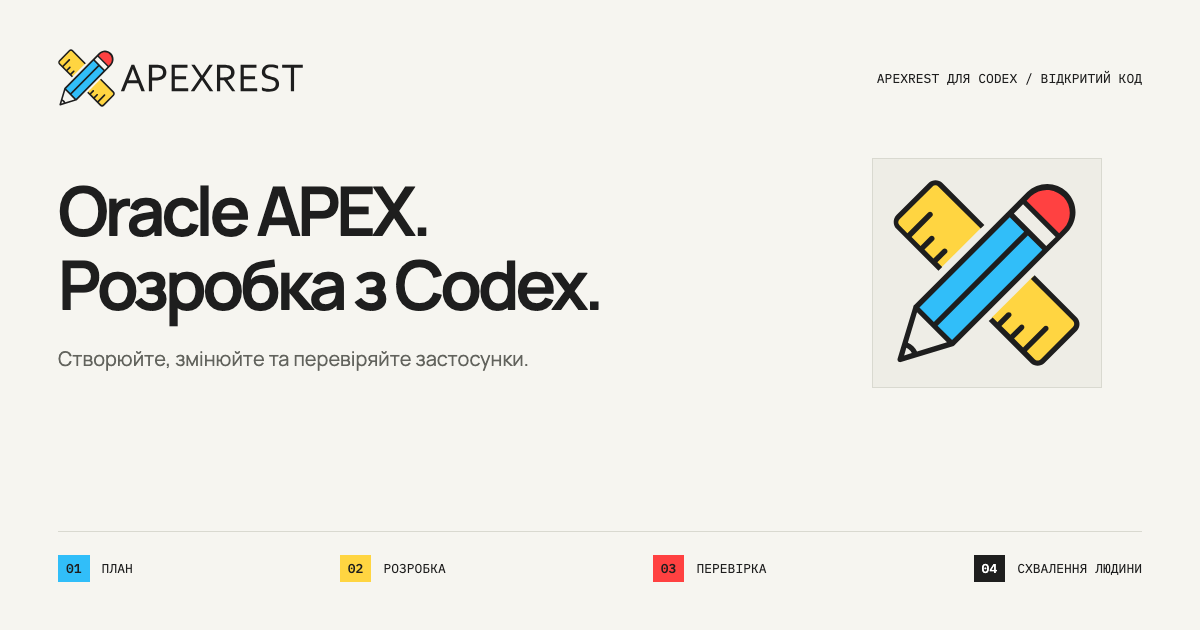
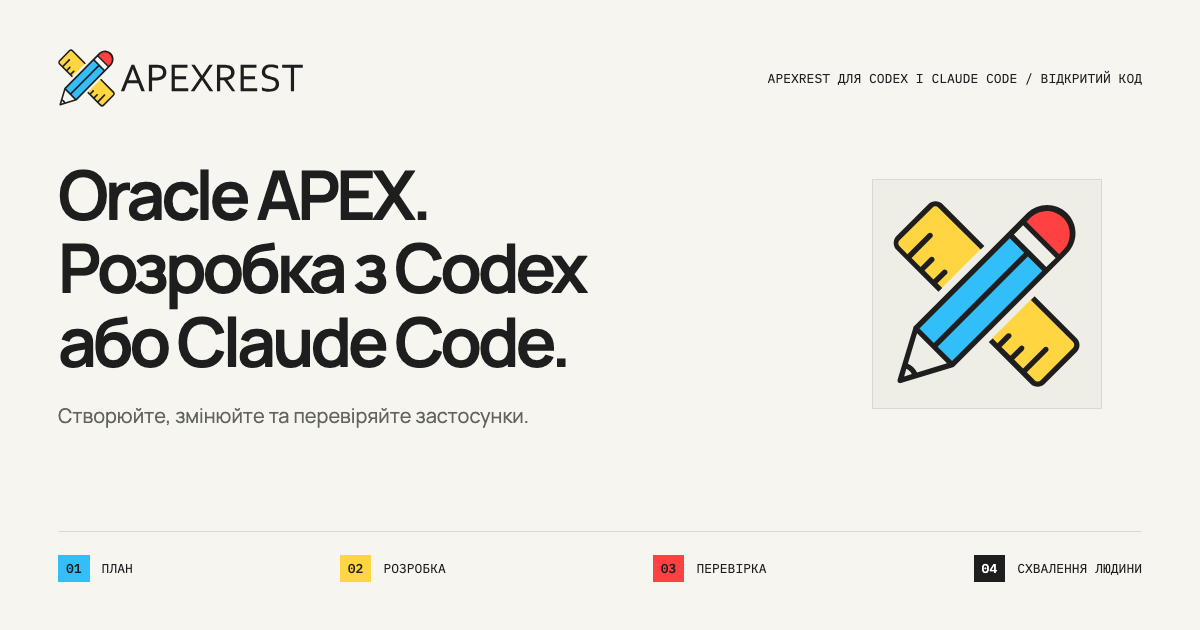
Present APEXREST 1.3.0 with a What's new section and refreshed social cards
Show 1.3.0 as the current release, add a six-item overview of the redesign
(Codex and Claude Code hosts, pooled SQLcl engine, 11 tools and 5 skills,
plan-bound ship, working copies, hardened safeguards) with its local-only
verification caveat, extend the headline to both hosts, fix the mobile
line break and the Ukrainian eyebrow, re-render the OG images and record
the npm publication lag in the content sources.

diff --git a/uk/index.html b/uk/index.html
@@ -22,7 +22,7 @@
   <meta property="og:image" content="https://apex.rest/assets/og-uk.png">
   <meta property="og:image:width" content="1200">
   <meta property="og:image:height" content="630">
-  <meta property="og:image:alt" content="APEXREST для Codex: Oracle APEX. Розробка з Codex. Створення, зміни, валідація та перевірка.">
+  <meta property="og:image:alt" content="APEXREST для Codex і Claude Code: Oracle APEX. Розробка з Codex або Claude Code. Створюйте, змінюйте та перевіряйте застосунки.">
 
   <meta name="twitter:card" content="summary_large_image">
   <meta name="twitter:title" content="APEXREST для Codex і Claude Code — Створюйте та змінюйте застосунки Oracle APEX">
@@ -54,7 +54,7 @@
   "@type": "SoftwareApplication",
   "name": "APEXREST for Codex and Claude Code",
   "applicationCategory": "DeveloperApplication",
-  "softwareVersion": "1.2.0",
+  "softwareVersion": "1.3.0",
   "url": "https://github.com/apexrest-dev/apexrest",
   "downloadUrl": "https://www.npmjs.com/package/apexrest",
   "license": "https://github.com/apexrest-dev/apexrest/blob/main/LICENSE",
@@ -74,6 +74,7 @@
       <a class="brand" href="#top" aria-label="APEXREST — головна"><img class="brand-logo" src="../assets/brand/apexrest-logo.svg" alt="APEXREST" width="216" height="50"></a>
       <nav class="site-nav" id="site-nav" aria-label="Основна навігація">
         <a href="#work">Можливості</a>
+        <a href="#new">Що нового</a>
         <a href="#trace">Як це працює</a>
         <a href="#proof">Документація</a>
         <a href="#install" class="nav-cta">Встановити плагін <span aria-hidden="true">↗</span></a>
@@ -87,11 +88,11 @@
   </header>
   <main id="main">
     <section class="hero" id="top">
-      <div class="shell announcement-banner"><a href="https://github.com/apexrest-dev/apexrest/blob/main/docs/release-notes.md" target="_blank" rel="noopener noreferrer"><span class="announcement-badge">NEW</span><span><strong>APEXREST</strong> — один плагін для Codex і Claude Code</span><span class="announcement-banner-link">Що нового <span aria-hidden="true">↗</span></span></a></div>
+      <div class="shell announcement-banner"><a href="https://github.com/apexrest-dev/apexrest/blob/main/docs/release-notes.md" target="_blank" rel="noopener noreferrer"><span class="announcement-badge">1.3.0</span><span><strong>APEXREST 1.3.0</strong> — один плагін для Codex і Claude Code, уже в npm</span><span class="announcement-banner-link">Що нового <span aria-hidden="true">↗</span></span></a></div>
       <div class="shell hero-grid" id="codex">
         <div class="hero-copy">
-          <p class="eyebrow"><span class="status-dot" aria-hidden="true"></span>APEXREST ДЛЯ CODEX / ПЛАГІН ІЗ ВІДКРИТИМ КОДОМ</p>
-          <h1>Oracle APEX.<br><em>Розробка<br> з Codex.</em></h1>
+          <p class="eyebrow"><span class="status-dot" aria-hidden="true"></span>APEXREST ДЛЯ CODEX І CLAUDE CODE / ПЛАГІН ІЗ ВІДКРИТИМ КОДОМ</p>
+          <h1>Oracle APEX.<br><em>Розробка з Codex<br> або Claude Code.</em></h1>
           <p class="hero-lede">Створюйте та змінюйте застосунки Oracle APEX у розмові з Codex або Claude Code. Один плагін працює в обох. APEXREST поєднує інструменти APEX, перевірки коду та керований імпорт в одному процесі.</p>
           <div class="hero-actions"><a class="button button-primary" href="#install">Встановити плагін <span aria-hidden="true">↓</span></a><a class="button button-secondary" href="https://github.com/apexrest-dev/apexrest/blob/main/docs/index.md" target="_blank" rel="noopener noreferrer">Документація <span aria-hidden="true">↗</span></a></div>
           <div class="hero-proof"><div><span>01</span><strong>Ваша поточна сесія Codex або Claude Code</strong></div><div><span>02</span><strong>Зрозумілий код під контролем версій</strong></div><div><span>03</span><strong>Імпорт у погоджених межах</strong></div></div>
@@ -131,8 +132,18 @@
 <li><span aria-hidden="true">04</span><div><h3>Повноцінна платформа застосунків</h3><p>Oracle APEX надає форми, звіти, автентифікацію та робочі процеси на Oracle Database — основу для промислової експлуатації вашого застосунку.</p></div></li></ol></div>
       </div>
     </section>
+    <section class="use-cases section-block section-paper" id="new">
+      <div class="shell"><div class="section-intro"><p class="section-index">03 / ЩО НОВОГО В 1.3.0</p><h2>Один плагін. Два хости.<br>Менша й точніша поверхня.</h2><p class="section-lede">Редизайн 1.3.0 скорочує поверхню агента з 21 інструмента до 11 і з 14 навичок до 5, додає Claude Code поряд із Codex і залишає кожен імпорт за явним дозволом, прив’язаним до плану.</p></div><div class="use-case-grid"><article><span>01 / ХОСТИ</span><h3>Codex і Claude Code</h3><p>Той самий пакет містить маніфест Codex і маніфест Claude Code. Навички не залежать від хоста, а MCP-сервер запускається з каталогу плагіна без глобальної реєстрації.</p></article>
+<article><span>02 / РУШІЙ</span><h3>Постійний рушій SQLcl</h3><p>Офлайн-робота компілятора виконується на пулі серверів SQLcl замість окремого процесу на кожен виклик. Валідація повертає структуровану діагностику: файл, рядок, стовпець, тип, допустимі значення та підказку.</p></article>
+<article><span>03 / ПОВЕРХНЯ</span><h3>Одинадцять інструментів, п’ять навичок</h3><p>Проєкт, довідка, метадані, валідація, ship, синхронізація, тести, браузер, задачі, артефакти та стан. Каталог інструментів — близько 12 КБ, тож менше контексту сесії йде на описи інструментів.</p></article>
+<article><span>04 / SHIP</span><h3>Спершу план, потім застосування</h3><p><code>apexrest_ship</code> спочатку планує, а потім застосовує за дозволом, прив’язаним до вашого запиту, проєкту, цілі та дайджесту плану. Прогрес звітується по фазах; production-цілі відхиляються.</p></article>
+<article><span>05 / SYNC</span><h3>Робочі копії наявних застосунків</h3><p>Тримайте робочу копію dev- або test-застосунку з одним редактором: ініціалізуйте, перевіряйте стан, оновлюйте чи скидайте та імпортуйте із замороженого локального коду.</p></article>
+<article><span>06 / БЕЗПЕКА</span><h3>Посилені запобіжники доставки</h3><p>Довіра до production, якою володіє адміністратор, плани зі строком дії 30 хвилин, резервні копії та файли паролів лише для власника, плоскі міграції з унікальними версіями. Жодних службових таблиць у вашій схемі APEX.</p></article></div>
+        <div class="trust-line"><span class="trust-stamp">ПОКИ ЩО ПЕРЕВІРЕНО ЛОКАЛЬНО</span><p>1.3.0 пройшов локальні модульні, контрактні, інсталяційні та пакувальні перевірки. Підключені імпорти Oracle, перевірки в автентифікованому браузері та живі сесії Codex чи Claude Code з викликом інструментів ще не зафіксовано.</p><a class="text-link" href="https://github.com/apexrest-dev/apexrest/blob/main/docs/release-notes.md" target="_blank" rel="noopener noreferrer">Нотатки до релізу <span aria-hidden="true">↗</span></a></div>
+      </div>
+    </section>
     <section class="trace section-block section-accent" id="trace">
-      <div class="shell"><div class="section-intro section-intro-split trace-intro"><div><p class="section-index">03 / ЯК ЦЕ ПРАЦЮЄ</p><h2>Від запиту<br>до перевіреної зміни.</h2></div><div class="slack-brief"><span class="micro-label">ПРИКЛАД / НАЯВНИЙ ЗАСТОСУНОК</span><p>Додайте звіт про статуси замовлень. Збережіть наявні сторінки й автентифікацію. Імпортуйте у визначений тестовий застосунок і перевірте фільтр.</p></div></div>
+      <div class="shell"><div class="section-intro section-intro-split trace-intro"><div><p class="section-index">04 / ЯК ЦЕ ПРАЦЮЄ</p><h2>Від запиту<br>до перевіреної зміни.</h2></div><div class="slack-brief"><span class="micro-label">ПРИКЛАД / НАЯВНИЙ ЗАСТОСУНОК</span><p>Додайте звіт про статуси замовлень. Збережіть наявні сторінки й автентифікацію. Імпортуйте у визначений тестовий застосунок і перевірте фільтр.</p></div></div>
         <ol class="trace-list product-workflow"><li><span class="trace-number">01</span><div><span class="trace-verb">МЕЖІ</span><h3>Визначте застосунок.</h3></div><p>Опишіть зміну та вкажіть проєкт і середовище. Агент перевірить доступний контекст застосунку й бази даних.</p></li>
 <li><span class="trace-number">02</span><div><span class="trace-verb">РОЗРОБКА</span><h3>Змініть зрозумілий код.</h3></div><p>Створіть або експортуйте застосунок, а потім внесіть обмежені зміни в APEXlang. Зберігайте міграції схеми й даних під контролем версій разом із застосунком.</p></li>
 <li><span class="trace-number">03</span><div><span class="trace-verb">ПЕРЕВІРКА</span><h3>Валідуйте до імпорту.</h3></div><p>Виконайте потрібні перевірки коду та компілятора. План розгортання фіксує код, інструментарій і цільове середовище.</p></li>
@@ -143,7 +154,7 @@
       </div>
     </section>
     <section class="section-block" id="team">
-      <div class="shell"><div class="section-intro section-intro-split"><div><p class="section-index">04 / ВАШ СПОСІБ РОБОТИ</p><h2>Ваша розмова.<br>Панель — коли потрібно.</h2></div><p>APEXREST працює у вже відкритій розмові з Codex або Claude Code. Хост зберігає модель і дозволи, а APEXREST надає операції Oracle APEX.</p></div>
+      <div class="shell"><div class="section-intro section-intro-split"><div><p class="section-index">05 / ВАШ СПОСІБ РОБОТИ</p><h2>Ваша розмова.<br>Панель — коли потрібно.</h2></div><p>APEXREST працює у вже відкритій розмові з Codex або Claude Code. Хост зберігає модель і дозволи, а APEXREST надає операції Oracle APEX.</p></div>
         <div class="repo-grid">
           <article class="repo-card repo-control"><div class="repo-card-top"><span class="repo-label">ЯК ВИ ПРАЦЮЄТЕ</span><span class="repo-status">CHAT</span></div><h3>Ваша поточна сесія Codex або Claude Code</h3><p class="repo-summary">Опишіть зміну у відкритій розмові. Робота починається там само, з її контекстом, моделлю та дозволами. Без додаткових агентів і без стартового виклику плагіна.</p><ul><li>Опишіть задачу або використайте <code>$apexrest-work</code></li><li>Налаштуйте підключення навичкою <code>$apexrest-setup</code></li><li>Продовжуйте зміни в тій самій розмові</li></ul><a class="repo-link" href="https://github.com/apexrest-dev/apexrest/blob/main/docs/chat-workflow.md" target="_blank" rel="noopener noreferrer">Як працювати в чаті <span aria-hidden="true">↗</span></a></article>
           <article class="repo-card repo-gate"><div class="repo-card-top"><span class="repo-label">ЗА ПОТРЕБИ</span><span class="repo-status">STATUS</span></div><h3>Стан розробки</h3><p class="repo-summary">Перегляньте стан розробки: налаштування проєкту й підключення, робочу копію, задачі, розгортання та дозволи. Він лише для читання і не може сам надати дозвіл чи застосувати план.</p><ul><li>Пряме підключення Oracle або ORDS HTTP(S)</li><li>Фактичні результати задач і діагностика</li><li>Браузер Codex або зовнішній браузер для перевірки</li></ul><a class="repo-link" href="https://github.com/apexrest-dev/apexrest/blob/main/docs/panel.md" target="_blank" rel="noopener noreferrer">Про стан розробки <span aria-hidden="true">↗</span></a></article>
@@ -151,7 +162,7 @@
       </div>
     </section>
     <section class="announcement section-block" id="install" aria-labelledby="install-title">
-      <div class="shell"><div class="announcement-heading"><p class="section-index">05 / ПОЧАТОК РОБОТИ</p><span class="announcement-version">NPM LATEST · 1.2.0</span></div>
+      <div class="shell"><div class="announcement-heading"><p class="section-index">06 / ПОЧАТОК РОБОТИ</p><span class="announcement-version">NPM LATEST · 1.3.0</span></div>
         <div class="announcement-grid"><div class="announcement-copy"><h2 id="install-title">Oracle APEX<br><em>у вашому агенті.</em></h2><p class="announcement-lede">Додайте marketplace. Встановіть плагін. Почніть із перевірки налаштувань.</p><p>Той самий пакет плагіна встановлюється з репозиторію в Codex (desktop і CLI) та Claude Code. Потрібен Node 24 LTS.</p><ol class="announcement-capabilities"><li><span aria-hidden="true">01</span><div><h3>Оберіть хост</h3><p>Виконайте дві команди для Codex або для Claude Code. Обидві реєструють той самий плагін APEXREST.</p></div></li>
 <li><span aria-hidden="true">02</span><div><h3>Нехай плагін підготує інструменти</h3><p>На ваш запит він покаже та встановить відсутні Java і SQLcl. Спершу ви ознайомитеся з умовами Oracle; база даних не створюється, застосунок не розгортається.</p></div></li>
 <li><span aria-hidden="true">03</span><div><h3>Почніть нову сесію</h3><p>Відкрийте нову задачу в Codex або сесію Claude Code та попросіть APEXREST перевірити налаштування до першої зміни застосунку.</p></div></li></ol><div class="announcement-actions"><a class="button button-primary" href="https://github.com/apexrest-dev/apexrest/blob/main/docs/getting-started.md" target="_blank" rel="noopener noreferrer">Повна інструкція встановлення <span aria-hidden="true">↗</span></a><a class="text-link" href="https://github.com/apexrest-dev/apexrest" target="_blank" rel="noopener noreferrer">Відкритий код на GitHub <span aria-hidden="true">↗</span></a></div></div>
@@ -166,13 +177,13 @@ claude plugin install apexrest@apexrest</code></pre><p class="announcement-insta
             <p class="micro-label">ВАШ ПЕРШИЙ ЗАПИТ</p><blockquote class="announcement-prompt">Використай APEXREST для перевірки моїх налаштувань. Повідом, які перевірки компілятора, підключення та цільового середовища ще потребують уваги.</blockquote><h4>Для роботи з Oracle</h4><ul class="announcement-requirements"><li>Java 21 та перевірений SQLcl 26.1.2</li><li>Наявне середовище Oracle APEX 26.1+</li><li>Збережене підключення SQLcl або приватні дані ORDS</li></ul><p class="announcement-install-note">Зберігайте паролі в локальних налаштуваннях підключення, поза запитами в чаті.</p>
             <details class="install-alternative"><summary>Потрібен лише CLI? Встановлення з npm</summary><pre class="announcement-commands"><code>npm install -g apexrest
 apexrest --version
-apexrest --help</code></pre><p class="announcement-install-note">npm latest — 1.2.0, beta — 1.3.0-beta.1. Обидва пакети досі містять попередній набір інструментів лише для Codex; підтримка Claude Code є в репозиторії.</p></details>
+apexrest --help</code></pre><p class="announcement-install-note">Команда встановлює npm latest — 1.3.0 на момент публікації; зафіксувати версію можна через apexrest@1.3.0. Старіший 1.3.0-beta.1 під тегом beta зберігає попередній набір із 21 інструмента.</p></details>
           </div></aside>
         </div>
-        <div class="announcement-boundaries"><div><h3>Працюєте в Codex Cloud?</h3><p>Окрема інструкція описує CLI та ORDS через HTTPS. Підтримку нативного Cloud-плагіна, MCP і панелі не підтверджено; повний Cloud-процес ще потребує наскрізної перевірки.</p><a class="text-link" href="https://github.com/apexrest-dev/apexrest/blob/main/docs/codex-cloud.md" target="_blank" rel="noopener noreferrer">Налаштування Cloud <span aria-hidden="true">↗</span></a></div><div><h3>Реліз із відкритими обмеженнями.</h3><p>Підтримку Claude Code перевірено локально: обидва маніфести плагіна валідні, локальне встановлення працює. Наскрізна сесія Claude Code і встановлення з опублікованого marketplace ще попереду, як і підключені імпорти, відновлення та ширші перевірки платформ. Версія 1.2.0 — актуальний реліз npm latest.</p><a class="text-link" href="https://github.com/apexrest-dev/apexrest/blob/main/docs/implementation-status.md" target="_blank" rel="noopener noreferrer">Стан перевірок <span aria-hidden="true">↗</span></a></div></div>
+        <div class="announcement-boundaries"><div><h3>Працюєте в Codex Cloud?</h3><p>Окрема інструкція описує CLI та ORDS через HTTPS. Підтримку нативного Cloud-плагіна, MCP і панелі не підтверджено; повний Cloud-процес ще потребує наскрізної перевірки.</p><a class="text-link" href="https://github.com/apexrest-dev/apexrest/blob/main/docs/codex-cloud.md" target="_blank" rel="noopener noreferrer">Налаштування Cloud <span aria-hidden="true">↗</span></a></div><div><h3>Реліз із відкритими обмеженнями.</h3><p>Версія 1.3.0 — актуальний реліз npm latest з оновленою поверхнею. Локальні перевірки пройдено; підключені імпорти Oracle, перевірки в автентифікованому браузері та живі сесії Codex чи Claude Code з викликом інструментів ще відкриті, як і відновлення та ширші перевірки платформ.</p><a class="text-link" href="https://github.com/apexrest-dev/apexrest/blob/main/docs/implementation-status.md" target="_blank" rel="noopener noreferrer">Стан перевірок <span aria-hidden="true">↗</span></a></div></div>
       </div>
     </section>
-    <section class="research section-block" id="proof"><div class="shell research-grid"><div><p class="section-index">06 / ДОКУМЕНТАЦІЯ ТА КОД</p><h2>Подробиці там,<br>де вони потрібні.</h2><a class="text-link" href="https://www.npmjs.com/package/apexrest" target="_blank" rel="noopener noreferrer">apexrest / npm <span aria-hidden="true">↗</span></a></div><div class="source-list"><a href="https://github.com/apexrest-dev/apexrest/blob/main/docs/getting-started.md" target="_blank" rel="noopener noreferrer"><span>СТАРТ</span>Встановлення та перший застосунок<i aria-hidden="true">↗</i></a>
+    <section class="research section-block" id="proof"><div class="shell research-grid"><div><p class="section-index">07 / ДОКУМЕНТАЦІЯ ТА КОД</p><h2>Подробиці там,<br>де вони потрібні.</h2><a class="text-link" href="https://www.npmjs.com/package/apexrest" target="_blank" rel="noopener noreferrer">apexrest / npm <span aria-hidden="true">↗</span></a></div><div class="source-list"><a href="https://github.com/apexrest-dev/apexrest/blob/main/docs/getting-started.md" target="_blank" rel="noopener noreferrer"><span>СТАРТ</span>Встановлення та перший застосунок<i aria-hidden="true">↗</i></a>
 <a href="https://github.com/apexrest-dev/apexrest/blob/main/docs/index.md" target="_blank" rel="noopener noreferrer"><span>ГІДИ</span>Уся документація плагіна<i aria-hidden="true">↗</i></a>
 <a href="https://github.com/apexrest-dev/apexrest/blob/main/docs/ords.md" target="_blank" rel="noopener noreferrer"><span>ЗВ’ЯЗОК</span>Підключення SQLcl та ORDS<i aria-hidden="true">↗</i></a>
 <a href="https://github.com/apexrest-dev/apexrest/blob/main/docs/deployment-safety.md" target="_blank" rel="noopener noreferrer"><span>КОНТРОЛЬ</span>Правила імпорту й релізу<i aria-hidden="true">↗</i></a>

diff --git a/index.html b/index.html
@@ -22,7 +22,7 @@
   <meta property="og:image" content="https://apex.rest/assets/og.png">
   <meta property="og:image:width" content="1200">
   <meta property="og:image:height" content="630">
-  <meta property="og:image:alt" content="APEXREST for Codex: Oracle APEX. Built with Codex. Create, change, validate and verify.">
+  <meta property="og:image:alt" content="APEXREST for Codex and Claude Code: Oracle APEX. Built with Codex or Claude Code. Create, change and verify your applications.">
 
   <meta name="twitter:card" content="summary_large_image">
   <meta name="twitter:title" content="APEXREST for Codex and Claude Code — Build and change Oracle APEX applications">
@@ -54,7 +54,7 @@
   "@type": "SoftwareApplication",
   "name": "APEXREST for Codex and Claude Code",
   "applicationCategory": "DeveloperApplication",
-  "softwareVersion": "1.2.0",
+  "softwareVersion": "1.3.0",
   "url": "https://github.com/apexrest-dev/apexrest",
   "downloadUrl": "https://www.npmjs.com/package/apexrest",
   "license": "https://github.com/apexrest-dev/apexrest/blob/main/LICENSE",
@@ -74,6 +74,7 @@
       <a class="brand" href="#top" aria-label="APEXREST home"><img class="brand-logo" src="assets/brand/apexrest-logo.svg" alt="APEXREST" width="216" height="50"></a>
       <nav class="site-nav" id="site-nav" aria-label="Main navigation">
         <a href="#work">Capabilities</a>
+        <a href="#new">What’s new</a>
         <a href="#trace">How it works</a>
         <a href="#proof">Documentation</a>
         <a href="#install" class="nav-cta">Install the plugin <span aria-hidden="true">↗</span></a>
@@ -87,11 +88,11 @@
   </header>
   <main id="main">
     <section class="hero" id="top">
-      <div class="shell announcement-banner"><a href="https://github.com/apexrest-dev/apexrest/blob/main/docs/release-notes.md" target="_blank" rel="noopener noreferrer"><span class="announcement-badge">NEW</span><span><strong>APEXREST</strong> — one plugin for Codex and Claude Code</span><span class="announcement-banner-link">Release notes <span aria-hidden="true">↗</span></span></a></div>
+      <div class="shell announcement-banner"><a href="https://github.com/apexrest-dev/apexrest/blob/main/docs/release-notes.md" target="_blank" rel="noopener noreferrer"><span class="announcement-badge">1.3.0</span><span><strong>APEXREST 1.3.0</strong> — one plugin for Codex and Claude Code, now on npm</span><span class="announcement-banner-link">Release notes <span aria-hidden="true">↗</span></span></a></div>
       <div class="shell hero-grid" id="codex">
         <div class="hero-copy">
           <p class="eyebrow"><span class="status-dot" aria-hidden="true"></span>APEXREST FOR CODEX AND CLAUDE CODE / OPEN-SOURCE PLUGIN</p>
-          <h1>Oracle APEX.<br><em>Built with<br> Codex.</em></h1>
+          <h1>Oracle APEX.<br><em>Built with Codex<br> or Claude Code.</em></h1>
           <p class="hero-lede">Create and change Oracle APEX applications in your Codex or Claude Code conversation. One plugin works in both. APEXREST brings the APEX tools, source checks and controlled imports into the same workflow.</p>
           <div class="hero-actions"><a class="button button-primary" href="#install">Install the plugin <span aria-hidden="true">↓</span></a><a class="button button-secondary" href="https://github.com/apexrest-dev/apexrest/blob/main/docs/index.md" target="_blank" rel="noopener noreferrer">Read the docs <span aria-hidden="true">↗</span></a></div>
           <div class="hero-proof"><div><span>01</span><strong>Your current Codex or Claude Code session</strong></div><div><span>02</span><strong>Readable, versioned source</strong></div><div><span>03</span><strong>Imports within your approval</strong></div></div>
@@ -131,8 +132,18 @@
 <li><span aria-hidden="true">04</span><div><h3>A real application platform</h3><p>Oracle APEX supplies forms, reports, authentication and workflow on Oracle Database: a production-grade foundation for your application.</p></div></li></ol></div>
       </div>
     </section>
+    <section class="use-cases section-block section-paper" id="new">
+      <div class="shell"><div class="section-intro"><p class="section-index">03 / WHAT'S NEW IN 1.3.0</p><h2>One plugin. Two hosts.<br>A smaller, sharper surface.</h2><p class="section-lede">The 1.3.0 redesign reduces the agent surface from 21 tools to 11 and from 14 skills to 5, adds Claude Code next to Codex and keeps every import behind an explicit, plan-bound grant.</p></div><div class="use-case-grid"><article><span>01 / HOSTS</span><h3>Codex and Claude Code</h3><p>The same bundle carries a Codex manifest and a Claude Code manifest. The skills are host-neutral and the MCP server starts from the plugin directory, with no global registration.</p></article>
+<article><span>02 / ENGINE</span><h3>Persistent SQLcl engine</h3><p>Offline compiler work runs on pooled SQLcl servers instead of one process per call. Validation returns structured diagnostics: file, line, column, type, valid values and a hint.</p></article>
+<article><span>03 / SURFACE</span><h3>Eleven tools, five skills</h3><p>Project, reference, metadata, validate, ship, sync, test, browser, job, artifact and status. The tool catalog is about 12 KB, so less of each session goes to tool descriptions.</p></article>
+<article><span>04 / SHIP</span><h3>Plan, then apply</h3><p><code>apexrest_ship</code> plans first, then applies under a grant bound to your request, the project, the target and the plan digest. Progress is reported by phase; production targets are refused.</p></article>
+<article><span>05 / SYNC</span><h3>Working copies of existing apps</h3><p>Keep a single-editor working copy of a development or test application: initialize, check status, refresh or invalidate, and import from frozen local source.</p></article>
+<article><span>06 / SAFETY</span><h3>Hardened delivery safeguards</h3><p>Administrator-owned production trust, plans that expire after 30 minutes, owner-only backups and password files, and flat, uniquely versioned migrations. No service tables in your APEX schema.</p></article></div>
+        <div class="trust-line"><span class="trust-stamp">VERIFIED LOCALLY SO FAR</span><p>1.3.0 passed its local unit, contract, installer and packaging checks. Connected Oracle imports, authenticated browser checks and live Codex or Claude Code sessions that call the tools are not yet recorded.</p><a class="text-link" href="https://github.com/apexrest-dev/apexrest/blob/main/docs/release-notes.md" target="_blank" rel="noopener noreferrer">Release notes <span aria-hidden="true">↗</span></a></div>
+      </div>
+    </section>
     <section class="trace section-block section-accent" id="trace">
-      <div class="shell"><div class="section-intro section-intro-split trace-intro"><div><p class="section-index">03 / THE WORKFLOW</p><h2>From a request<br>to a checked change.</h2></div><div class="slack-brief"><span class="micro-label">EXAMPLE / EXISTING APP</span><p>Add an order status report. Preserve the existing pages and authentication. Import into the named test app and verify the filter.</p></div></div>
+      <div class="shell"><div class="section-intro section-intro-split trace-intro"><div><p class="section-index">04 / THE WORKFLOW</p><h2>From a request<br>to a checked change.</h2></div><div class="slack-brief"><span class="micro-label">EXAMPLE / EXISTING APP</span><p>Add an order status report. Preserve the existing pages and authentication. Import into the named test app and verify the filter.</p></div></div>
         <ol class="trace-list product-workflow"><li><span class="trace-number">01</span><div><span class="trace-verb">SCOPE</span><h3>Identify the application.</h3></div><p>Describe the change and name the project and environment. Your agent checks the available app and database context.</p></li>
 <li><span class="trace-number">02</span><div><span class="trace-verb">BUILD</span><h3>Edit readable source.</h3></div><p>Create or adopt the application, then make bounded changes in APEXlang. Keep schema and data migrations versioned alongside the app.</p></li>
 <li><span class="trace-number">03</span><div><span class="trace-verb">CHECK</span><h3>Validate before import.</h3></div><p>Run the relevant source and compiler checks. The deployment plan records the source, toolchain and target.</p></li>
@@ -143,7 +154,7 @@
       </div>
     </section>
     <section class="section-block" id="team">
-      <div class="shell"><div class="section-intro section-intro-split"><div><p class="section-index">04 / YOUR WAY OF WORKING</p><h2>Your conversation.<br>A panel when you need it.</h2></div><p>APEXREST works in the Codex or Claude Code conversation you already have. Your host keeps the model and permissions; APEXREST supplies the Oracle APEX operations.</p></div>
+      <div class="shell"><div class="section-intro section-intro-split"><div><p class="section-index">05 / YOUR WAY OF WORKING</p><h2>Your conversation.<br>A panel when you need it.</h2></div><p>APEXREST works in the Codex or Claude Code conversation you already have. Your host keeps the model and permissions; APEXREST supplies the Oracle APEX operations.</p></div>
         <div class="repo-grid">
           <article class="repo-card repo-control"><div class="repo-card-top"><span class="repo-label">HOW YOU WORK</span><span class="repo-status">CHAT</span></div><h3>Your current Codex or Claude Code session</h3><p class="repo-summary">Describe the change in the open conversation. Implementation starts there, with its existing context, model and permissions. No extra agents and no plugin startup call.</p><ul><li>Describe the task or use <code>$apexrest-work</code></li><li>Set up connections with the <code>$apexrest-setup</code> skill</li><li>Continue edits in the same conversation</li></ul><a class="repo-link" href="https://github.com/apexrest-dev/apexrest/blob/main/docs/chat-workflow.md" target="_blank" rel="noopener noreferrer">Read the chat workflow <span aria-hidden="true">↗</span></a></article>
           <article class="repo-card repo-gate"><div class="repo-card-top"><span class="repo-label">WHEN USEFUL</span><span class="repo-status">STATUS</span></div><h3>The development status</h3><p class="repo-summary">Read the development status for project and connection settings, working copy, jobs, deployments and grants. It is read-only and cannot grant authorization or apply a plan.</p><ul><li>Direct Oracle listener or ORDS HTTP(S)</li><li>Actual job results and diagnostics</li><li>Codex or external verification browser</li></ul><a class="repo-link" href="https://github.com/apexrest-dev/apexrest/blob/main/docs/panel.md" target="_blank" rel="noopener noreferrer">Read the development status <span aria-hidden="true">↗</span></a></article>
@@ -151,7 +162,7 @@
       </div>
     </section>
     <section class="announcement section-block" id="install" aria-labelledby="install-title">
-      <div class="shell"><div class="announcement-heading"><p class="section-index">05 / GET STARTED</p><span class="announcement-version">NPM LATEST · 1.2.0</span></div>
+      <div class="shell"><div class="announcement-heading"><p class="section-index">06 / GET STARTED</p><span class="announcement-version">NPM LATEST · 1.3.0</span></div>
         <div class="announcement-grid"><div class="announcement-copy"><h2 id="install-title">Bring APEX<br><em>into your agent.</em></h2><p class="announcement-lede">Add the marketplace. Install the plugin. Start with a setup check.</p><p>The same plugin bundle installs into Codex (desktop and CLI) and Claude Code from the repository. Use Node 24 LTS.</p><ol class="announcement-capabilities"><li><span aria-hidden="true">01</span><div><h3>Choose your host</h3><p>Run the two commands for Codex or for Claude Code. Both register the same APEXREST plugin.</p></div></li>
 <li><span aria-hidden="true">02</span><div><h3>Let the plugin prepare the tools</h3><p>On request, it previews and installs missing Java and SQLcl. You review the Oracle terms first; nothing creates a database or deploys an application.</p></div></li>
 <li><span aria-hidden="true">03</span><div><h3>Start a new session</h3><p>Open a new Codex task or Claude Code session and ask APEXREST to check your setup before your first application change.</p></div></li></ol><div class="announcement-actions"><a class="button button-primary" href="https://github.com/apexrest-dev/apexrest/blob/main/docs/getting-started.md" target="_blank" rel="noopener noreferrer">Full installation guide <span aria-hidden="true">↗</span></a><a class="text-link" href="https://github.com/apexrest-dev/apexrest" target="_blank" rel="noopener noreferrer">View source on GitHub <span aria-hidden="true">↗</span></a></div></div>
@@ -166,13 +177,13 @@ claude plugin install apexrest@apexrest</code></pre><p class="announcement-insta
             <p class="micro-label">YOUR FIRST REQUEST</p><blockquote class="announcement-prompt">Use APEXREST to check my setup. Report the compiler, connection and target checks that still need attention.</blockquote><h4>For connected Oracle work</h4><ul class="announcement-requirements"><li>Java 21 and reviewed SQLcl 26.1.2</li><li>An existing Oracle APEX 26.1+ target</li><li>A saved SQLcl connection or private ORDS credentials</li></ul><p class="announcement-install-note">Keep passwords in the local connection settings, outside chat prompts.</p>
             <details class="install-alternative"><summary>Prefer the command-line tool? Install from npm</summary><pre class="announcement-commands"><code>npm install -g apexrest
 apexrest --version
-apexrest --help</code></pre><p class="announcement-install-note">npm latest is 1.2.0 and beta is 1.3.0-beta.1. Both packages still carry the previous Codex-only tool surface; Claude Code support is in the repository.</p></details>
+apexrest --help</code></pre><p class="announcement-install-note">This installs npm latest, 1.3.0 at the time of writing; pin it with apexrest@1.3.0. The older 1.3.0-beta.1 under the beta tag keeps the previous 21-tool surface.</p></details>
           </div></aside>
         </div>
-        <div class="announcement-boundaries"><div><h3>Using Codex Cloud?</h3><p>A separate guide covers command-line tools with ORDS over HTTPS. Native Cloud plugin discovery, MCP and panel support are not established; the full Cloud workflow still needs end-to-end verification.</p><a class="text-link" href="https://github.com/apexrest-dev/apexrest/blob/main/docs/codex-cloud.md" target="_blank" rel="noopener noreferrer">Read the Cloud setup guide <span aria-hidden="true">↗</span></a></div><div><h3>Released, with visible limits.</h3><p>Claude Code support is verified locally: both plugin manifests validate and a local install works. An end-to-end Claude Code session and a published marketplace install remain open, and so do connected imports, recovery and broader platform checks. Version 1.2.0 is the npm latest release.</p><a class="text-link" href="https://github.com/apexrest-dev/apexrest/blob/main/docs/implementation-status.md" target="_blank" rel="noopener noreferrer">Review verification status <span aria-hidden="true">↗</span></a></div></div>
+        <div class="announcement-boundaries"><div><h3>Using Codex Cloud?</h3><p>A separate guide covers command-line tools with ORDS over HTTPS. Native Cloud plugin discovery, MCP and panel support are not established; the full Cloud workflow still needs end-to-end verification.</p><a class="text-link" href="https://github.com/apexrest-dev/apexrest/blob/main/docs/codex-cloud.md" target="_blank" rel="noopener noreferrer">Read the Cloud setup guide <span aria-hidden="true">↗</span></a></div><div><h3>Released, with visible limits.</h3><p>Version 1.3.0 is the npm latest release with the redesigned surface. Local checks passed; connected Oracle imports, authenticated browser checks and live Codex or Claude Code sessions that call the tools remain open, as do recovery and broader platform checks.</p><a class="text-link" href="https://github.com/apexrest-dev/apexrest/blob/main/docs/implementation-status.md" target="_blank" rel="noopener noreferrer">Review verification status <span aria-hidden="true">↗</span></a></div></div>
       </div>
     </section>
-    <section class="research section-block" id="proof"><div class="shell research-grid"><div><p class="section-index">06 / DOCUMENTATION & SOURCE</p><h2>Go deeper where<br>you need to.</h2><a class="text-link" href="https://www.npmjs.com/package/apexrest" target="_blank" rel="noopener noreferrer">apexrest / npm <span aria-hidden="true">↗</span></a></div><div class="source-list"><a href="https://github.com/apexrest-dev/apexrest/blob/main/docs/getting-started.md" target="_blank" rel="noopener noreferrer"><span>START</span>Installation and first application<i aria-hidden="true">↗</i></a>
+    <section class="research section-block" id="proof"><div class="shell research-grid"><div><p class="section-index">07 / DOCUMENTATION & SOURCE</p><h2>Go deeper where<br>you need to.</h2><a class="text-link" href="https://www.npmjs.com/package/apexrest" target="_blank" rel="noopener noreferrer">apexrest / npm <span aria-hidden="true">↗</span></a></div><div class="source-list"><a href="https://github.com/apexrest-dev/apexrest/blob/main/docs/getting-started.md" target="_blank" rel="noopener noreferrer"><span>START</span>Installation and first application<i aria-hidden="true">↗</i></a>
 <a href="https://github.com/apexrest-dev/apexrest/blob/main/docs/index.md" target="_blank" rel="noopener noreferrer"><span>GUIDES</span>All plugin documentation<i aria-hidden="true">↗</i></a>
 <a href="https://github.com/apexrest-dev/apexrest/blob/main/docs/ords.md" target="_blank" rel="noopener noreferrer"><span>CONNECT</span>SQLcl and ORDS connections<i aria-hidden="true">↗</i></a>
 <a href="https://github.com/apexrest-dev/apexrest/blob/main/docs/deployment-safety.md" target="_blank" rel="noopener noreferrer"><span>CONTROL</span>Import and release safeguards<i aria-hidden="true">↗</i></a>

diff --git a/brand/social/uk.html b/brand/social/uk.html
@@ -1,3 +1,3 @@
 <!doctype html><html lang="uk"><meta charset="utf-8"><title>APEXREST social card</title><link rel="stylesheet" href="../../assets/fonts/fonts.css"><style>
 *{box-sizing:border-box}body{margin:0;width:1200px;height:630px;overflow:hidden;background:#f6f5f0;color:#1e1e1e;font-family:Manrope,Arial,sans-serif;padding:48px 58px;position:relative}.logo{width:245px;height:60px;object-fit:contain;object-position:left}.tag{position:absolute;right:58px;top:70px;font-family:'IBM Plex Mono',monospace;font-size:13px}.main{display:grid;grid-template-columns:1fr 310px;gap:30px;align-items:center;margin-top:45px}h1{font-size:68px;line-height:1.08;letter-spacing:-4px;font-weight:650;margin:0 0 24px}p{font-size:20px;margin:0;color:#62635d}.symbol{width:230px;height:230px;margin:auto;padding:20px;border:1px solid #d9d9d0;background:#eeede6}.rail{position:absolute;left:58px;right:58px;bottom:48px;display:flex;justify-content:space-between;border-top:1px solid #d9d9d0;padding-top:23px;align-items:center;font-family:'IBM Plex Mono',monospace;font-size:13px}.rail span{display:flex;align-items:center;gap:12px}.rail b{background:#31bef9;padding:5px 8px;font-weight:500}.rail span:nth-child(2) b{background:#ffd541}.rail span:nth-child(3) b{background:#ff4141}.rail span:nth-child(4) b{background:#1e1e1e;color:white}i{font-style:normal}
-</style><body><img class="logo" src="../../assets/brand/apexrest-logo.svg" alt="APEXREST"><span class="tag">APEXREST ДЛЯ CODEX / ВІДКРИТИЙ КОД</span><div class="main"><div><h1>Oracle APEX.<br>Розробка з Codex.</h1><p>Створюйте, змінюйте та перевіряйте застосунки.</p></div><img class="symbol" src="../../assets/brand/apexrest-symbol.svg" alt=""></div><div class="rail"><span><b>01</b>ПЛАН</span><span><b>02</b>РОЗРОБКА</span><span><b>03</b>ПЕРЕВІРКА</span><span><b>04</b>СХВАЛЕННЯ ЛЮДИНИ</span></div></body></html>
+</style><body><img class="logo" src="../../assets/brand/apexrest-logo.svg" alt="APEXREST"><span class="tag">APEXREST ДЛЯ CODEX І CLAUDE CODE / ВІДКРИТИЙ КОД</span><div class="main"><div><h1>Oracle APEX.<br>Розробка з Codex<br>або Claude Code.</h1><p>Створюйте, змінюйте та перевіряйте застосунки.</p></div><img class="symbol" src="../../assets/brand/apexrest-symbol.svg" alt=""></div><div class="rail"><span><b>01</b>ПЛАН</span><span><b>02</b>РОЗРОБКА</span><span><b>03</b>ПЕРЕВІРКА</span><span><b>04</b>СХВАЛЕННЯ ЛЮДИНИ</span></div></body></html>

diff --git a/brand/social/en.html b/brand/social/en.html
@@ -1,3 +1,3 @@
 <!doctype html><html lang="en"><meta charset="utf-8"><title>APEXREST social card</title><link rel="stylesheet" href="../../assets/fonts/fonts.css"><style>
 *{box-sizing:border-box}body{margin:0;width:1200px;height:630px;overflow:hidden;background:#f6f5f0;color:#1e1e1e;font-family:Manrope,Arial,sans-serif;padding:48px 58px;position:relative}.logo{width:245px;height:60px;object-fit:contain;object-position:left}.tag{position:absolute;right:58px;top:70px;font-family:'IBM Plex Mono',monospace;font-size:13px}.main{display:grid;grid-template-columns:1fr 310px;gap:30px;align-items:center;margin-top:45px}h1{font-size:68px;line-height:1.08;letter-spacing:-4px;font-weight:650;margin:0 0 24px}p{font-size:20px;margin:0;color:#62635d}.symbol{width:230px;height:230px;margin:auto;padding:20px;border:1px solid #d9d9d0;background:#eeede6}.rail{position:absolute;left:58px;right:58px;bottom:48px;display:flex;justify-content:space-between;border-top:1px solid #d9d9d0;padding-top:23px;align-items:center;font-family:'IBM Plex Mono',monospace;font-size:13px}.rail span{display:flex;align-items:center;gap:12px}.rail b{background:#31bef9;padding:5px 8px;font-weight:500}.rail span:nth-child(2) b{background:#ffd541}.rail span:nth-child(3) b{background:#ff4141}.rail span:nth-child(4) b{background:#1e1e1e;color:white}i{font-style:normal}
-</style><body><img class="logo" src="../../assets/brand/apexrest-logo.svg" alt="APEXREST"><span class="tag">APEXREST FOR CODEX / OPEN SOURCE</span><div class="main"><div><h1>Oracle APEX.<br>Built with Codex.</h1><p>Create, change and verify your applications.</p></div><img class="symbol" src="../../assets/brand/apexrest-symbol.svg" alt=""></div><div class="rail"><span><b>01</b>PLAN</span><span><b>02</b>BUILD</span><span><b>03</b>VERIFY</span><span><b>04</b>HUMAN APPROVAL</span></div></body></html>
+</style><body><img class="logo" src="../../assets/brand/apexrest-logo.svg" alt="APEXREST"><span class="tag">APEXREST FOR CODEX AND CLAUDE CODE / OPEN SOURCE</span><div class="main"><div><h1>Oracle APEX.<br>Built with Codex<br>or Claude Code.</h1><p>Create, change and verify your applications.</p></div><img class="symbol" src="../../assets/brand/apexrest-symbol.svg" alt=""></div><div class="rail"><span><b>01</b>PLAN</span><span><b>02</b>BUILD</span><span><b>03</b>VERIFY</span><span><b>04</b>HUMAN APPROVAL</span></div></body></html>

diff --git a/assets/css/site.css b/assets/css/site.css
@@ -208,6 +208,7 @@ h1 em { color: var(--muted); }
 .use-case-grid span { font-family: var(--font-mono); font-size: 10px; color: var(--muted); }
 .use-case-grid h3 { margin-top: 22px; font-size: 24px; }
 .use-case-grid p { color: var(--muted); font-size: 13px; margin: 0; }
+.use-case-grid code { font-family: var(--font-mono); font-size: .9em; }
 .research-grid { display: grid; grid-template-columns: .9fr 1.1fr; gap: 12%; }
 .research h2 { font-size: 38px; }
 .source-list { border-top: 1px solid var(--line); }

diff --git a/docs/content-sources.md b/docs/content-sources.md
@@ -15,9 +15,11 @@ Verified on **2026-10-04**. This document records the source basis for the landi
 
 [Upstream 1.0.0](https://github.com/apexrest-dev/apexrest/blob/13a5c617f7fa74d4cdf1ac09925b4322f4a77500/CHANGELOG.md#L15) removed plugin-owned model sessions, task registration, role routing, team tools/skill and panel controls. `docs/work-modes.md` and `docs/agent-workflow.md` no longer exist. The site no longer describes agent teams, work modes or model routing.
 
-## Repository rename and Claude Code (2026-10-06)
+## Repository rename, 1.3.0 and Claude Code (2026-10-06)
 
-The repository was renamed to [apexrest-dev/apexrest](https://github.com/apexrest-dev/apexrest) (main at `183d51e3743d539e3f7ed52fc1bf71490d98888c`); the site links use the new name. Upstream README and `docs/index.md` describe one plugin bundle for Codex and Claude Code, installed with `claude plugin marketplace add apexrest-dev/apexrest` and `claude plugin install apexrest@apexrest`. npm `latest` is still 1.2.0 and `beta` 1.3.0-beta.1, which carry the earlier surface, so the site presents marketplace installation first and npm as a CLI option. Claude Code evidence is limited to `claude plugin validate --strict` and a local test install; the site states that an end-to-end session and published marketplace install remain open. Upstream has no `*.uk.md` documents, so the Ukrainian page links to the English docs. Sections below predate this change and describe the earlier Codex-only text.
+The repository was renamed to [apexrest-dev/apexrest](https://github.com/apexrest-dev/apexrest) (main at `28bca28968ff11abb0cf4f7a3050933e7e9e69cb`); the site links use the new name. Upstream [README](https://github.com/apexrest-dev/apexrest/blob/28bca28968ff11abb0cf4f7a3050933e7e9e69cb/README.md), [CHANGELOG](https://github.com/apexrest-dev/apexrest/blob/28bca28968ff11abb0cf4f7a3050933e7e9e69cb/CHANGELOG.md) and [release notes](https://github.com/apexrest-dev/apexrest/blob/28bca28968ff11abb0cf4f7a3050933e7e9e69cb/docs/release-notes.md) declare `apexrest@1.3.0` the stable npm `latest`: 11 MCP tools instead of 21, 5 host-neutral skills instead of 14, a pooled SQLcl engine with structured diagnostics, `apexrest_ship` plan/apply with plan-bound grants, `apexrest_apex_sync` working copies, hardened deployment safety and Claude Code support (`claude plugin marketplace add apexrest-dev/apexrest`, `claude plugin install apexrest@apexrest`). The terminal UI, panel server, `$apexrest-menu`/`$apexrest-panel` and Ukrainian docs were removed; the panel is a read-only status snapshot. At the user's request the site presents 1.3.0 and these features in the "What's new" section.
+
+**Boundary:** at 2026-10-06T07:40Z the [npm registry](https://registry.npmjs.org/apexrest) still reported `latest` = 1.2.0 and `beta` = 1.3.0-beta.1 with no 1.3.0 entry, so publication lagged the documentation; `check-site.py --external` fails until it lands. [Implementation status](https://github.com/apexrest-dev/apexrest/blob/28bca28968ff11abb0cf4f7a3050933e7e9e69cb/docs/implementation-status.md) records connected Oracle, authenticated browser and native-host Codex/Claude Code checks as NOT RUN; the site says so. Upstream has no `*.uk.md` documents, so the Ukrainian page links to the English docs. Sections below predate this change and describe the earlier 1.2.0 text.
 
 ## Installation text
 

diff --git a/AGENTS.md b/AGENTS.md
@@ -47,7 +47,7 @@ Then open `http://localhost:8000`.
 - Keep import and release described as explicit human decisions.
 - Preserve the disclaimer that APEXREST is independent of Oracle and `pi-apex` is an independent integration, not an Oracle product.
 - Use current `apexrest-dev/apexrest` documentation and Oracle documentation as primary sources. Check npm publication before making installation claims; record evidence in `docs/content-sources.md`.
-- Claude Code support is in the source repository but not in the published npm packages (1.2.0 / 1.3.0-beta.1 carry the earlier Codex-only surface); describe Claude Code installation through the plugin marketplace only, and keep the end-to-end session and published-marketplace caveats until upstream closes them. Distinguish the local native plugin from the separate Cloud CLI + ORDS setup. Do not imply unverified native Cloud integration or end-to-end Cloud support.
+- The site presents 1.3.0 (redesign: 11 tools, 5 skills, Claude Code support) as the current release because upstream README, CHANGELOG and release notes declare it npm `latest`. On 2026-10-06 the npm registry still reported `latest` 1.2.0, so `check-site.py --external` fails until publication lands; rerun it before further version claims. Describe Claude Code installation through the plugin marketplace only, and keep the caveat that live Codex/Claude Code sessions and connected Oracle checks are not yet recorded. Distinguish the local native plugin from the separate Cloud CLI + ORDS setup. Do not imply unverified native Cloud integration or end-to-end Cloud support.
 - Product questions link to `https://www.linkedin.com/in/avhrst/`; keep the removed general email contact out of the site.
 - Keep the site in English unless the user asks for another language.
 
